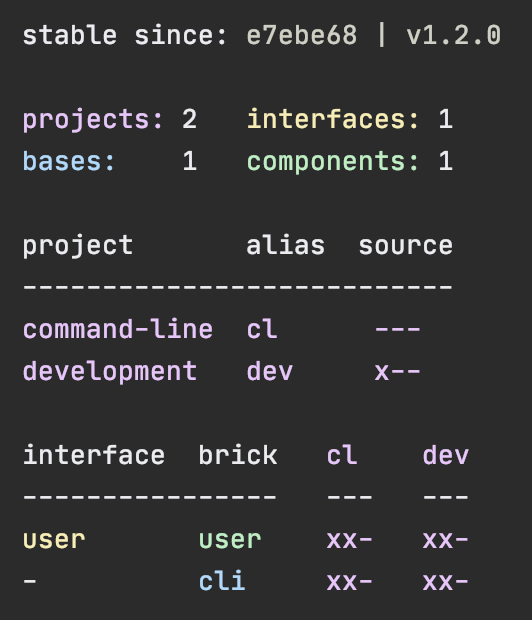
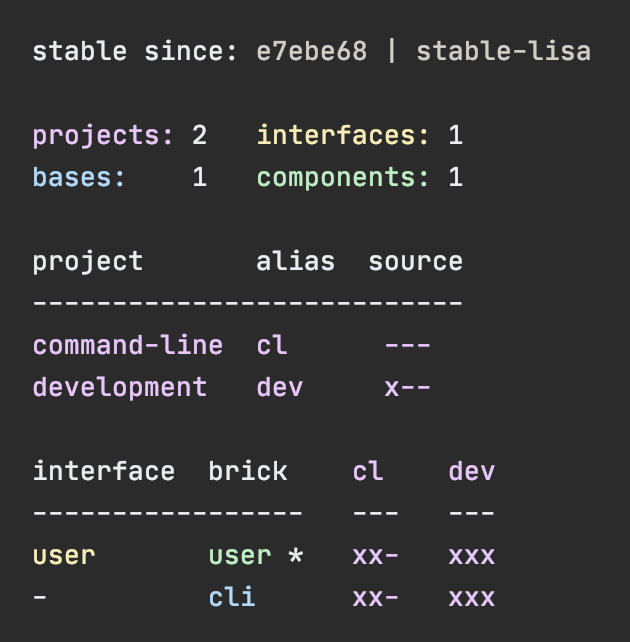
Updated documentation (#53)
- Added documentation + added a "Git hook" section.
- Updated three screen shots.

diff --git a/readme.md b/readme.md
@@ -47,7 +47,7 @@ Some of the Polylith [documentation](https://polylith.gitbook.io) still mentions
 in the old Leiningen version of the tool, for example the empty `workspace interfaces` and the use of
 `symbolic links` (that have both been removed).
 In some of the videos, we still call things `systems` instead of `services`. 
-Now both the development project and systems/services are handled as `projects`.
+Now both the development environment and systems/services are handled as `projects`.
 
 The biggest difference is that the new tool is based on
 [tools.deps](https://github.com/clojure/tools.deps.alpha) instead of [Leiningen](https://leiningen.org/)
@@ -78,9 +78,11 @@ and more.
 - [Naming](#naming)
 - [Mix languages](#mix-languages)
 - [Configuration](#configuration)
-- [Colors](#colors)
+- [Workspace state](#workspace-state)
+- [Git hook](#git-hook)
 - [CI and Deployment](doc/ci-and-deployment.md)
 - [Commands](doc/commands.md)
+- [Colors](#colors)
 - [Contact](#contact)
 - [License](#license)
 
@@ -234,7 +236,7 @@ example            # workspace dir
 ├── .git           # git repository dir
 ├── bases          # bases dir
 ├── components     # components dir
-├── deps.edn       # development + workspace config file
+├── deps.edn       # workspace config file
 ├── development
 │   └── src        # development specific code
 ├── logo.png       # polylith logo
@@ -248,7 +250,7 @@ which lets us reason about the system at a higher level.
 
 Each top-level directory contains a specific type of Polylith concept. 
 A `base` is a building block that exposes a public API to external systems. 
-A `component` is a building block for encapsulating a specific domain or part of the system/service. 
+A `component` is a building block for encapsulating a specific domain or part of the system.
 A `project` specifies our deployable artifacts and what components, bases, and libraries they contain. 
 Finally, we have the `development` project (`development` + `deps.edn`) 
 that we use to work with the code in one place.
@@ -505,7 +507,7 @@ that it's instead time to split up the component into smaller components!
 Here is an example of some code that uses such an interface:
 ```clojure
 (ns dev.lisa
-  (:require [se.example.util.interface.spec :as time-util]))
+  (:require [se.example.util.interface.time :as time-util]))
 
 (time-util/current-time)
 ```
@@ -660,7 +662,7 @@ There are two kinds of projects in Polylith: development and deployable.
 1. The `development` project:
    - This is where we work with the code, often from a REPL. 
    - It contains all libraries, components and bases in the workspace, which is specified in `./deps.edn`.
-   - If we have any `profiles` then they are defined in `./deps.edn`.
+   - If we have any [profiles](#profile) then they are defined in `./deps.edn`.
    - Any extra code, that is not part of a component or base, lives under the `development` folder.
 2. Any `deployable` project:
    - Used to build deployable artifacts, e.g.: lambda functions, REST API's, libraries, tools, ...and more.
@@ -2207,7 +2209,7 @@ The workspace configuration is stored under the `:polylith` key in `./deps.edn` 
 | :stable-tag-pattern    | The default value is `stable-*`. If changed, old tags may not be recognised. |
 | :compact-views         | The default value is `#{}`. If set to `#{"libs"}`, then the `libs` diagram will be shown in a more compact format. Only "libs" is supported at the moment. |
 | :project-to-alias      | If the `development` key is missing, `{"development" "dev"}` will be added. |
-| :ns-to-lib             | Can be left empty, but will give a more detailed output from the [libs](#libs) command if populated. |
+| :ns-to-lib             | Can be left empty, but will give a more detailed output from the [libs](#libs) command if populated + missing libraries will be detected in environments when running the [check](#check) or [info](#info) command. |
 
 Only the `:top-namespace` attribute is mandatory, all other attributes will use their default values.
 
@@ -2228,7 +2230,7 @@ If `~/.polylith/config.edn` doesn't exists, it will be created the first time th
  :empty-character "·"}
 ```
 
-### The workspace state
+## Workspace state
 
 There is a way to view all configuration that is used by the tool, and that is to execute the [ws](#ws) command
 (here, against the `example` workspace):
@@ -2286,9 +2288,9 @@ poly ws get:settings:profile-to-settings:default
 
 If we execute `poly ws` without any arguments, it will view the whole workspace as plain data (a hash map).
 This data structure is produceed by the tool itself and is used by all the commands internally.
-The commands only operate on this hash map and are not performing any side effecting operations,
-like touching the disk or executing git commands. Instead, everything is prepared so that all commands can
-be executed in memory. 
+The commands only operate on this hash map and are not performing any io operations,
+such as touching the disk or executing git commands. Instead, everything is prepared so that all commands can
+be executed in memory.
 
 This will not only simplify the code of the tool itself but it also gives us, as a user of the tool,
 a way to explore the complete state of the workspace.
@@ -2382,6 +2384,25 @@ poly ws get:old-user-input:args ws-file:ws.edn
 
 The `old-user-input` key is added when `ws-file` is given.
 
+## Git hook
+
+We can ensure that we don't push code that puts the workspace in an invalid state,
+by adding a [git hook](https://git-scm.com/book/en/v2/Customizing-Git-Git-Hooks) to our workspace
+that runs the [check](doc/commands.md#check) command.
+
+To make this work, all developers should add `.git/hooks/commit-msg` to the root of the workspace
+on their local disk with the following content, e.g.:
+
+```
+#!/usr/bin/env bash
+
+exec /usr/bin/java -jar /usr/local/polylith/poly.jar check color-mode:none ws-dir:PATH-TO-WORKSPACE-DIRECTORY
+
+if [[ $? -ne 0 ]] then
+  exit 1
+fi
+```
+
 ## Colors
 
 When we created the `example` workspace, the file `~/.polylith/config.edn` was also created:
@@ -2392,7 +2413,7 @@ When we created the `example` workspace, the file `~/.polylith/config.edn` was a
 ```
 
 For Windows systems the `color-mode` is set to `none` and for all other systems, `dark` will be used as default.
-Valid values are: `none`, `light` or `dark`.
+Valid values are: `none`, `light` and `dark`.
 
 In this documentation we have used the `dark` color schema, but we can switch to `light`
 by giving the `color-mode` parameter (or by updating `~/.polylith/config.edn`):
